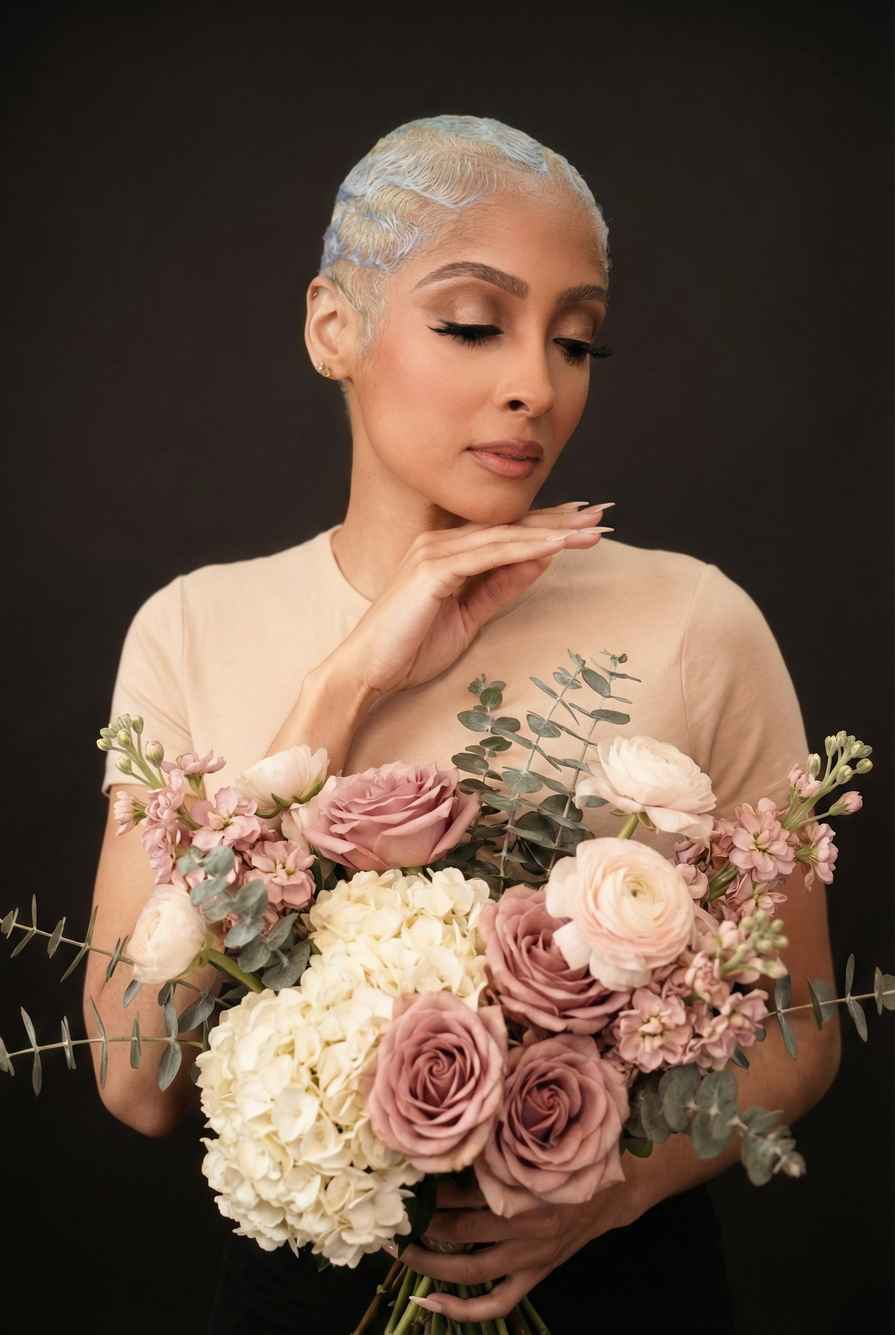
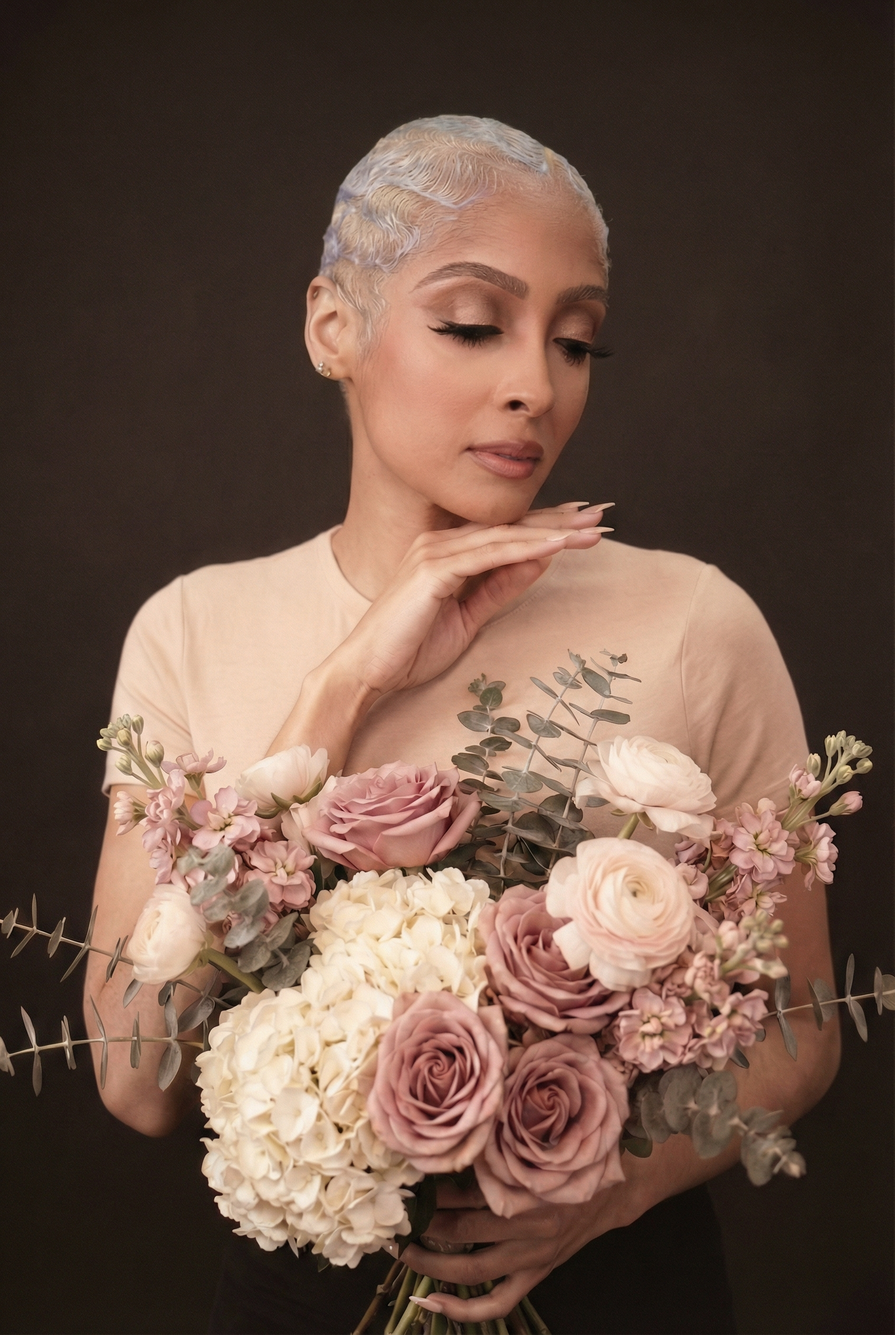
Fix image color grading and update booking policies
- Apply muted editorial color grading to photo-03, photo-12, photo-17
- Update booking summary to emphasize non-refundable, non-transferable deposits

diff --git a/lib/config/policies.ts b/lib/config/policies.ts
@@ -79,9 +79,9 @@ export const BOOKING_POLICIES: Policy[] = [
 
 // Summary version for quick display
 export const BOOKING_AGREEMENT_SUMMARY = [
-  `${DEPOSIT_DISPLAY} non-refundable deposit required`,
-  'Cancellations forfeit deposit',
-  'No-shows forfeit deposit',
+  `${DEPOSIT_DISPLAY} non-refundable, non-transferable deposit required`,
+  'Deposits cannot be refunded or transferred to another person/date',
+  'Cancellations & no-shows forfeit deposit',
   'Remaining balance due upon arrival',
   'All sales are final',
 ];
